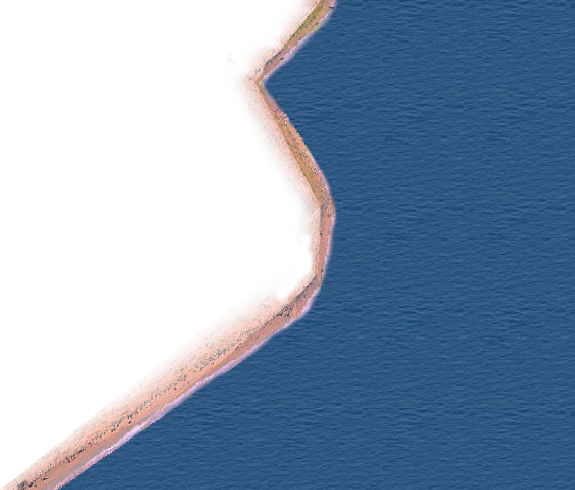
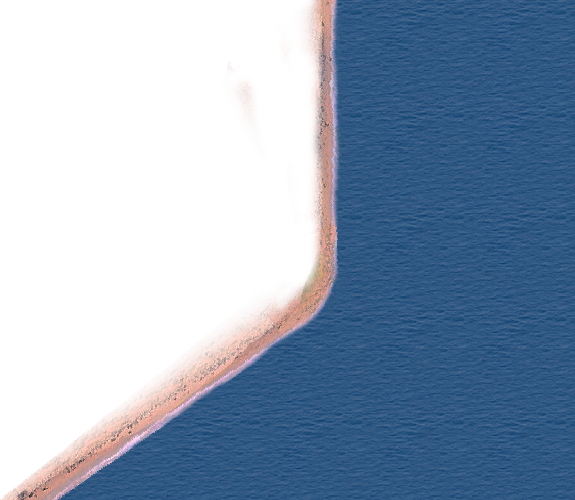
updated coast added port TODO: adjust coast resize

diff --git a/src/Civ/classes/gfx/CityFrame.java b/src/Civ/classes/gfx/CityFrame.java
@@ -231,13 +231,14 @@ public class CityFrame extends JFrame {
 
             drawRoads(g);
 
-            draw(coastBgTop, d.left().top().dim(1100, 340, 1750 - 1100,65));
-            draw(coastBgRight, d.dim(575, 490, 1750 - 575, 400));
+            draw(coastBgTop, d.left().top().dim(1100, 315, 0 + 350,80));
+            draw(coastBgRight, d.dim(575, 500, (1100 - 575) + 350, 395));
 
             //g.drawImage(coastBg, 0,0, getWidth(), getHeight(),null);
           // g.drawImage(coastBgTop, getWidth() - 1080, 85, 1080, 335,null);
            //g.drawImage(coastBgRight, getWidth() - 700, 400, 900, getHeight(),null);
 
+            drawBuilding(g, cityLayout.getBuilding("port"), 18, cityLayout.cityLayoutMatrixSize / 2 + 1);
 
             int to = cityLayout.cityLayoutMatrixSize - 1;
             for (int y = to; y >= 0; y--) {
